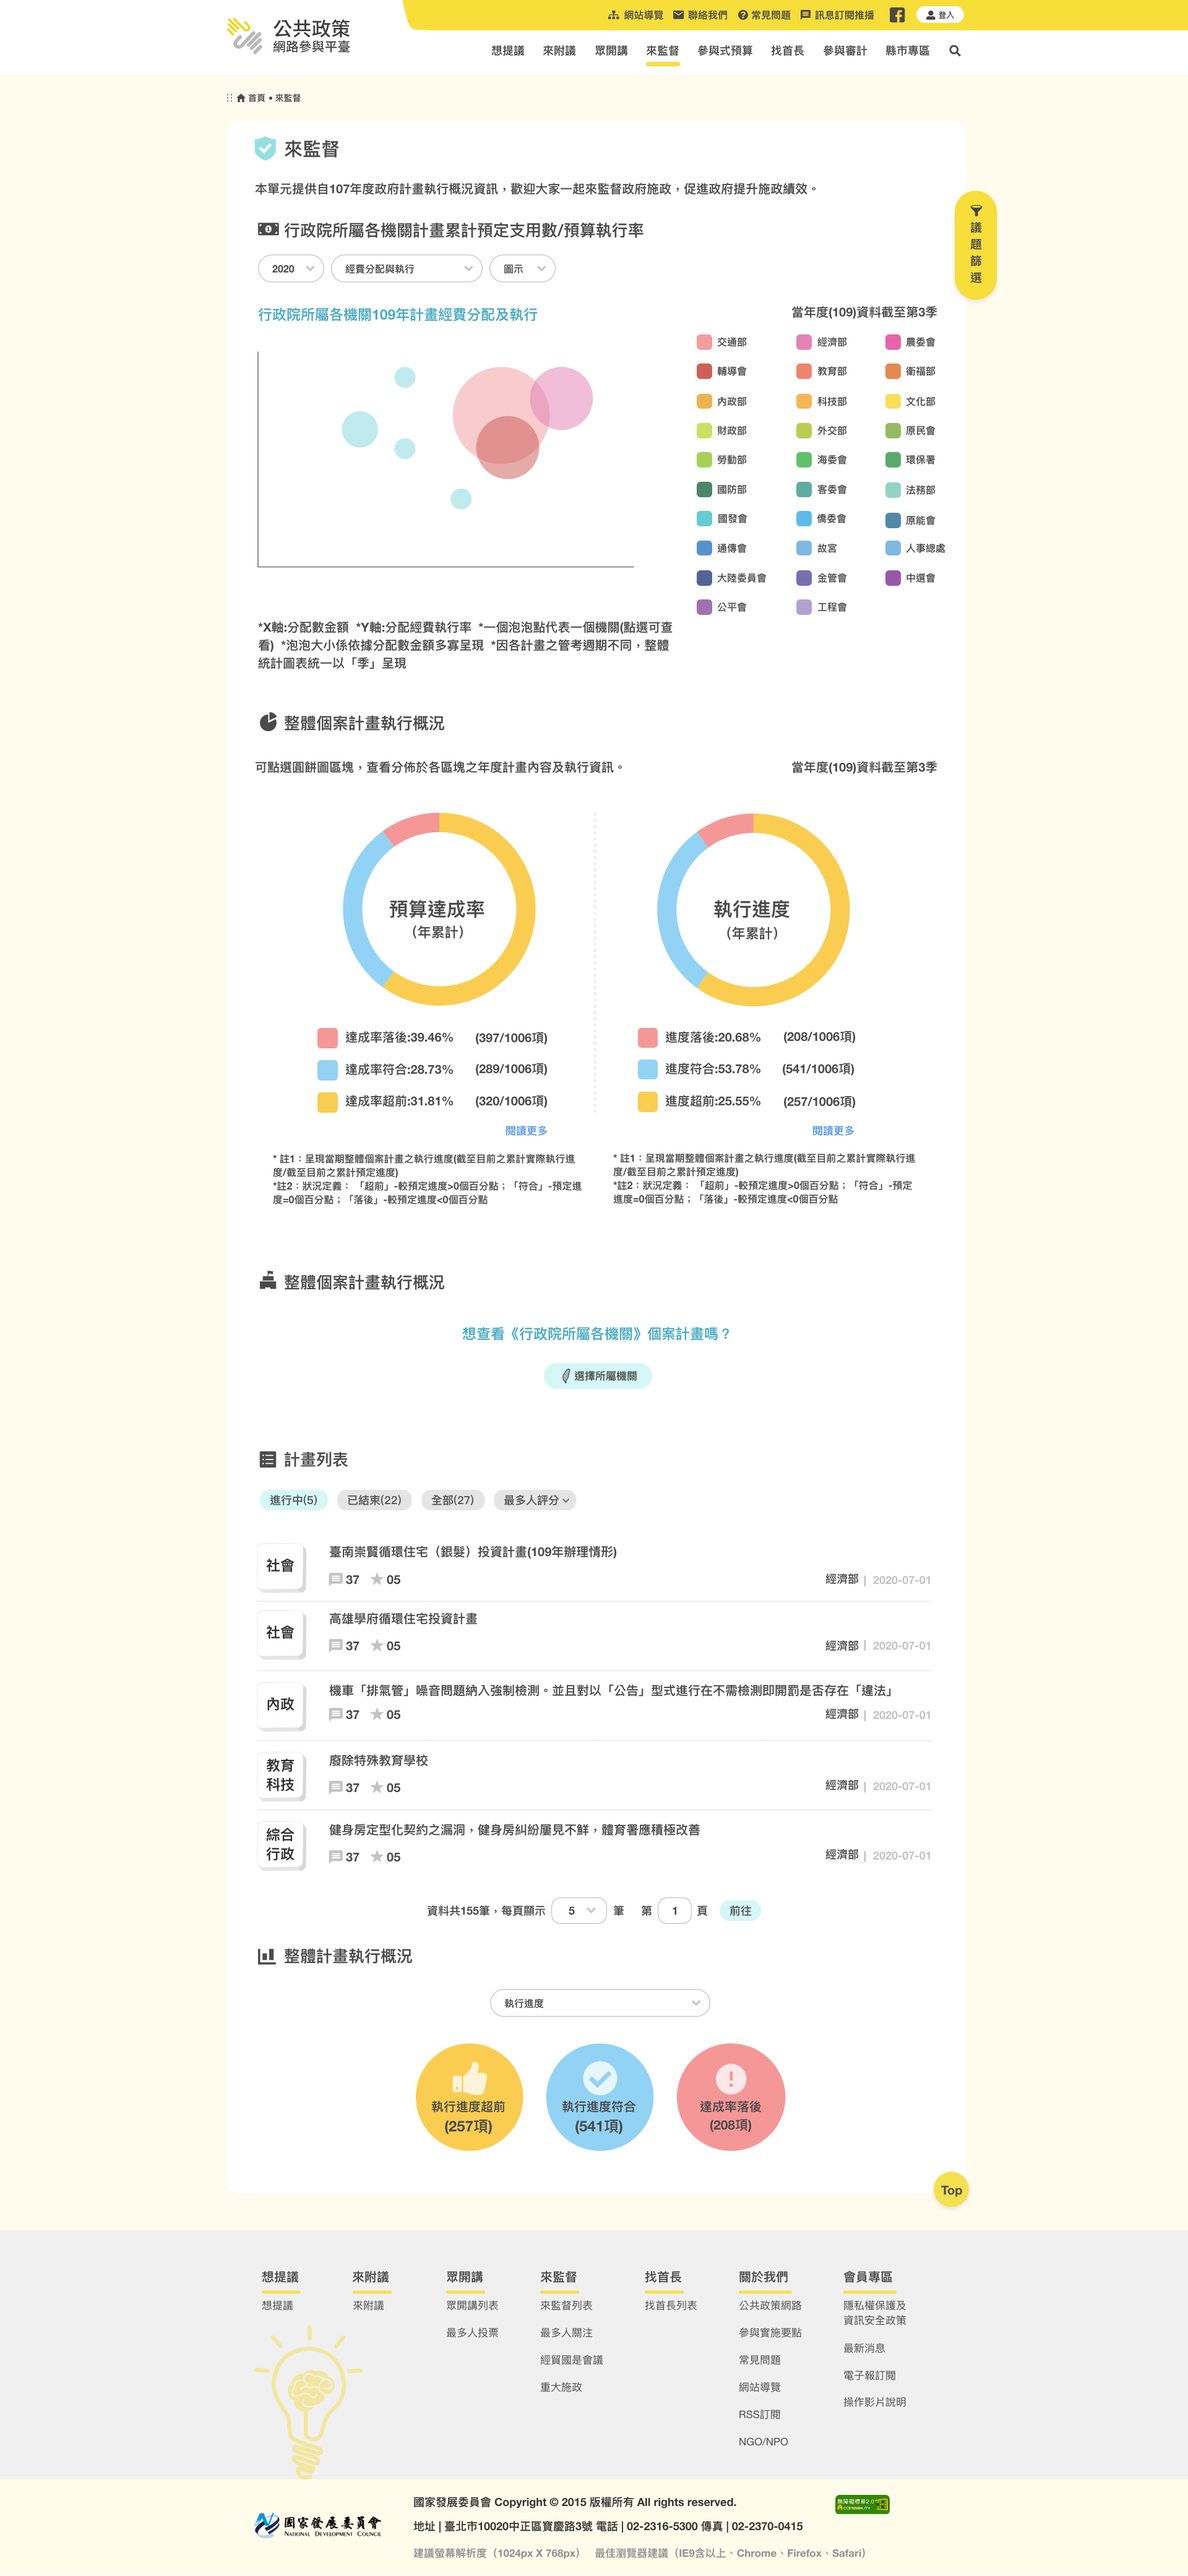
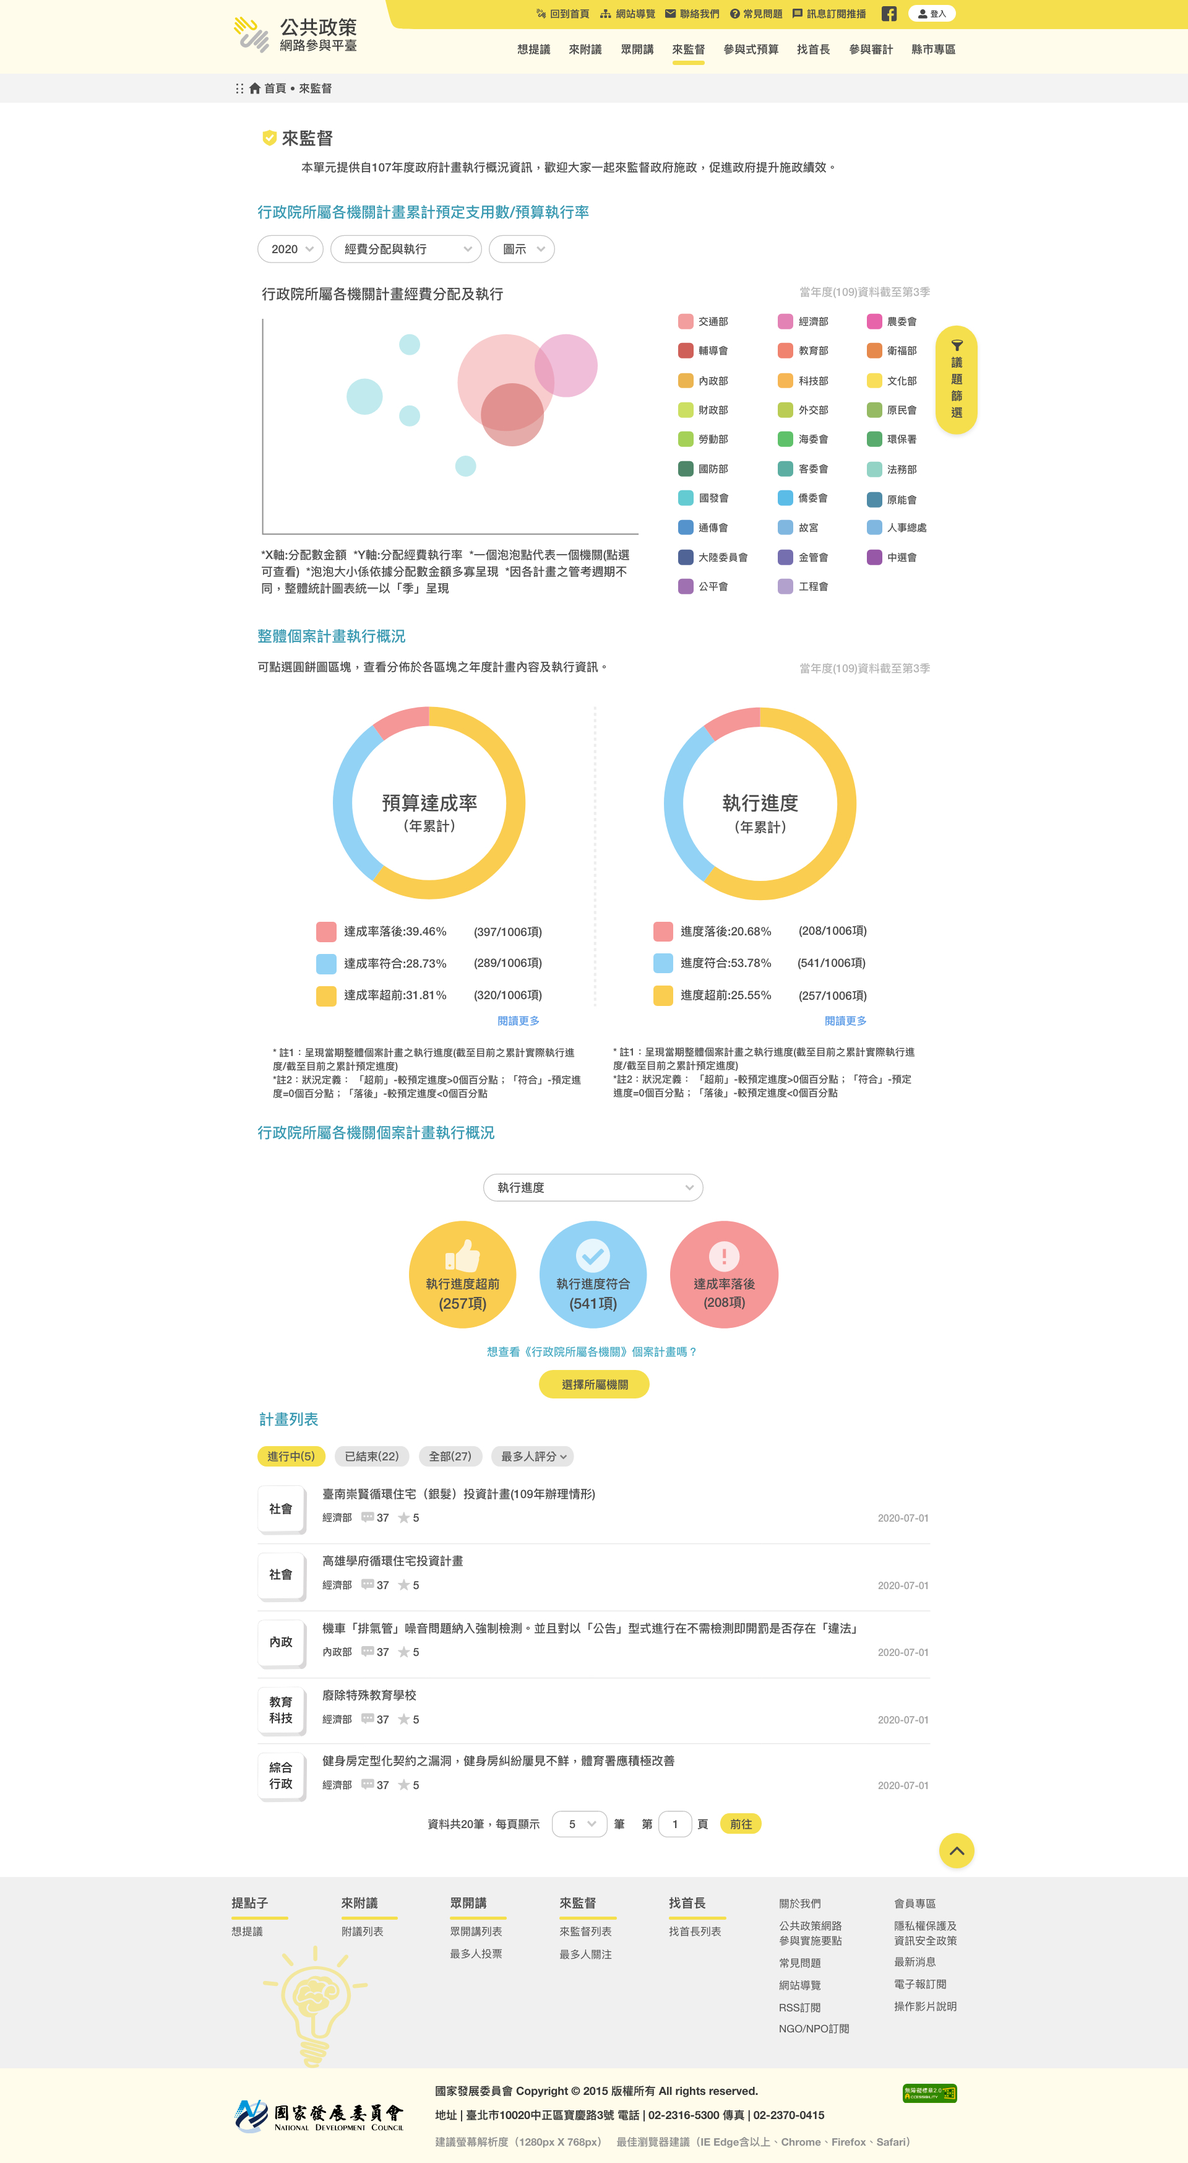
0122-new-1

diff --git a/supervise/supervise-detail.html b/supervise/supervise-detail.html
@@ -1,0 +1,10 @@
+<!DOCTYPE html>
+
+<html lang="en">
+
+
+<body style="margin: 0px;">
+	<div style="background-image:url(../img/來監督-明細頁-電腦版.jpg);background-repeat:no-repeat;background-position:top center;width:100%;height:3192px;"></div>
+</body>
+
+</html>

diff --git a/supervise/supervise.html b/supervise/supervise.html
@@ -1,0 +1,10 @@
+<!DOCTYPE html>
+
+<html lang="en">
+
+
+<body style="margin: 0px;">
+	<div style="background-image:url(../img/來監督-電腦版.jpg);background-repeat:no-repeat;background-position:top center;width:100%;height:4210px;"></div>
+</body>
+
+</html>

diff --git a/supervise/supervise-m.html b/supervise/supervise-m.html
@@ -4,7 +4,7 @@
 
 
 <body style="margin: 0px;">
-	<img style="width:100%;" src="./img/來監督-手機版.jpg" alt="">
+	<img style="width:100%;" src="../img/來監督-手機版.jpg" alt="">
 </body>
 
 </html>

diff --git a/supervise/supervise-detail-m.html b/supervise/supervise-detail-m.html
@@ -1,0 +1,10 @@
+<!DOCTYPE html>
+
+<html lang="en">
+
+
+<body style="margin: 0px;">
+	<img style="width:100%;" src="../img/來監督-明細頁介紹-手機版.jpg" alt="">
+</body>
+
+</html>
